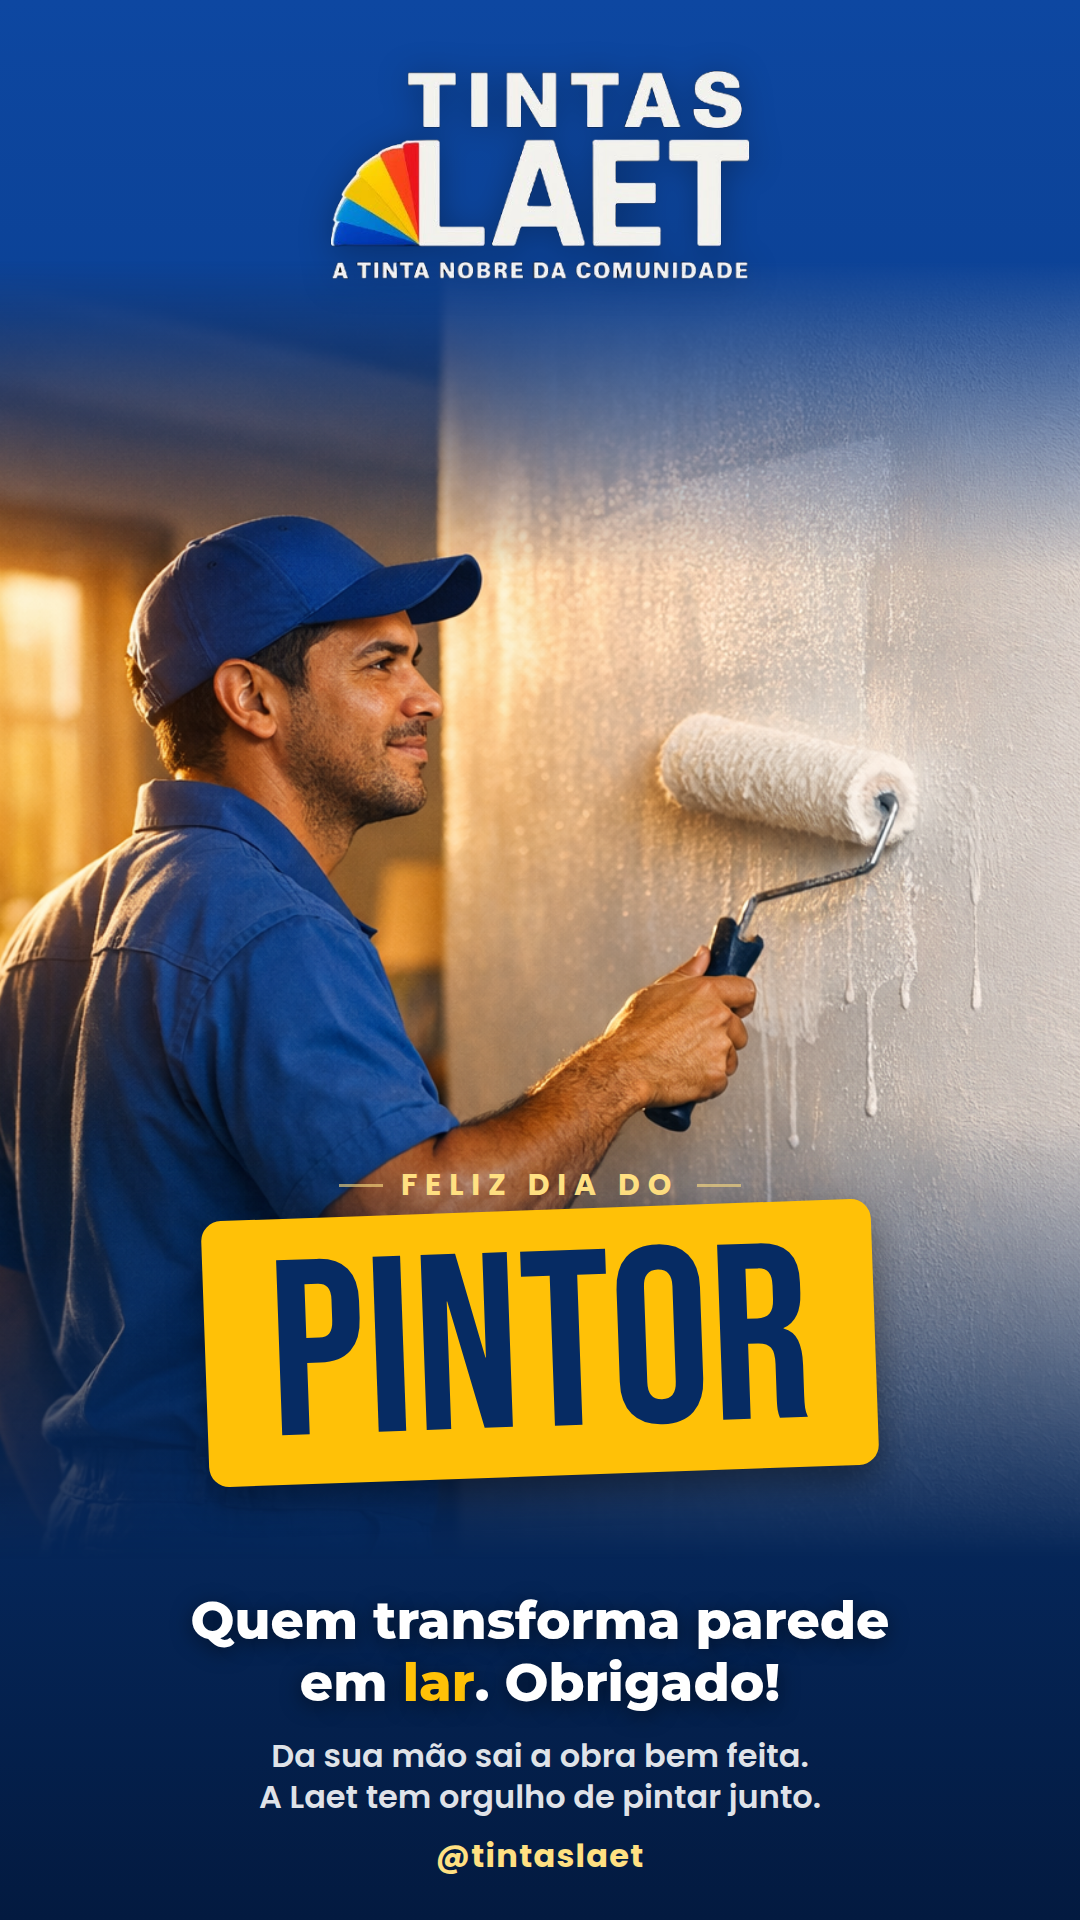
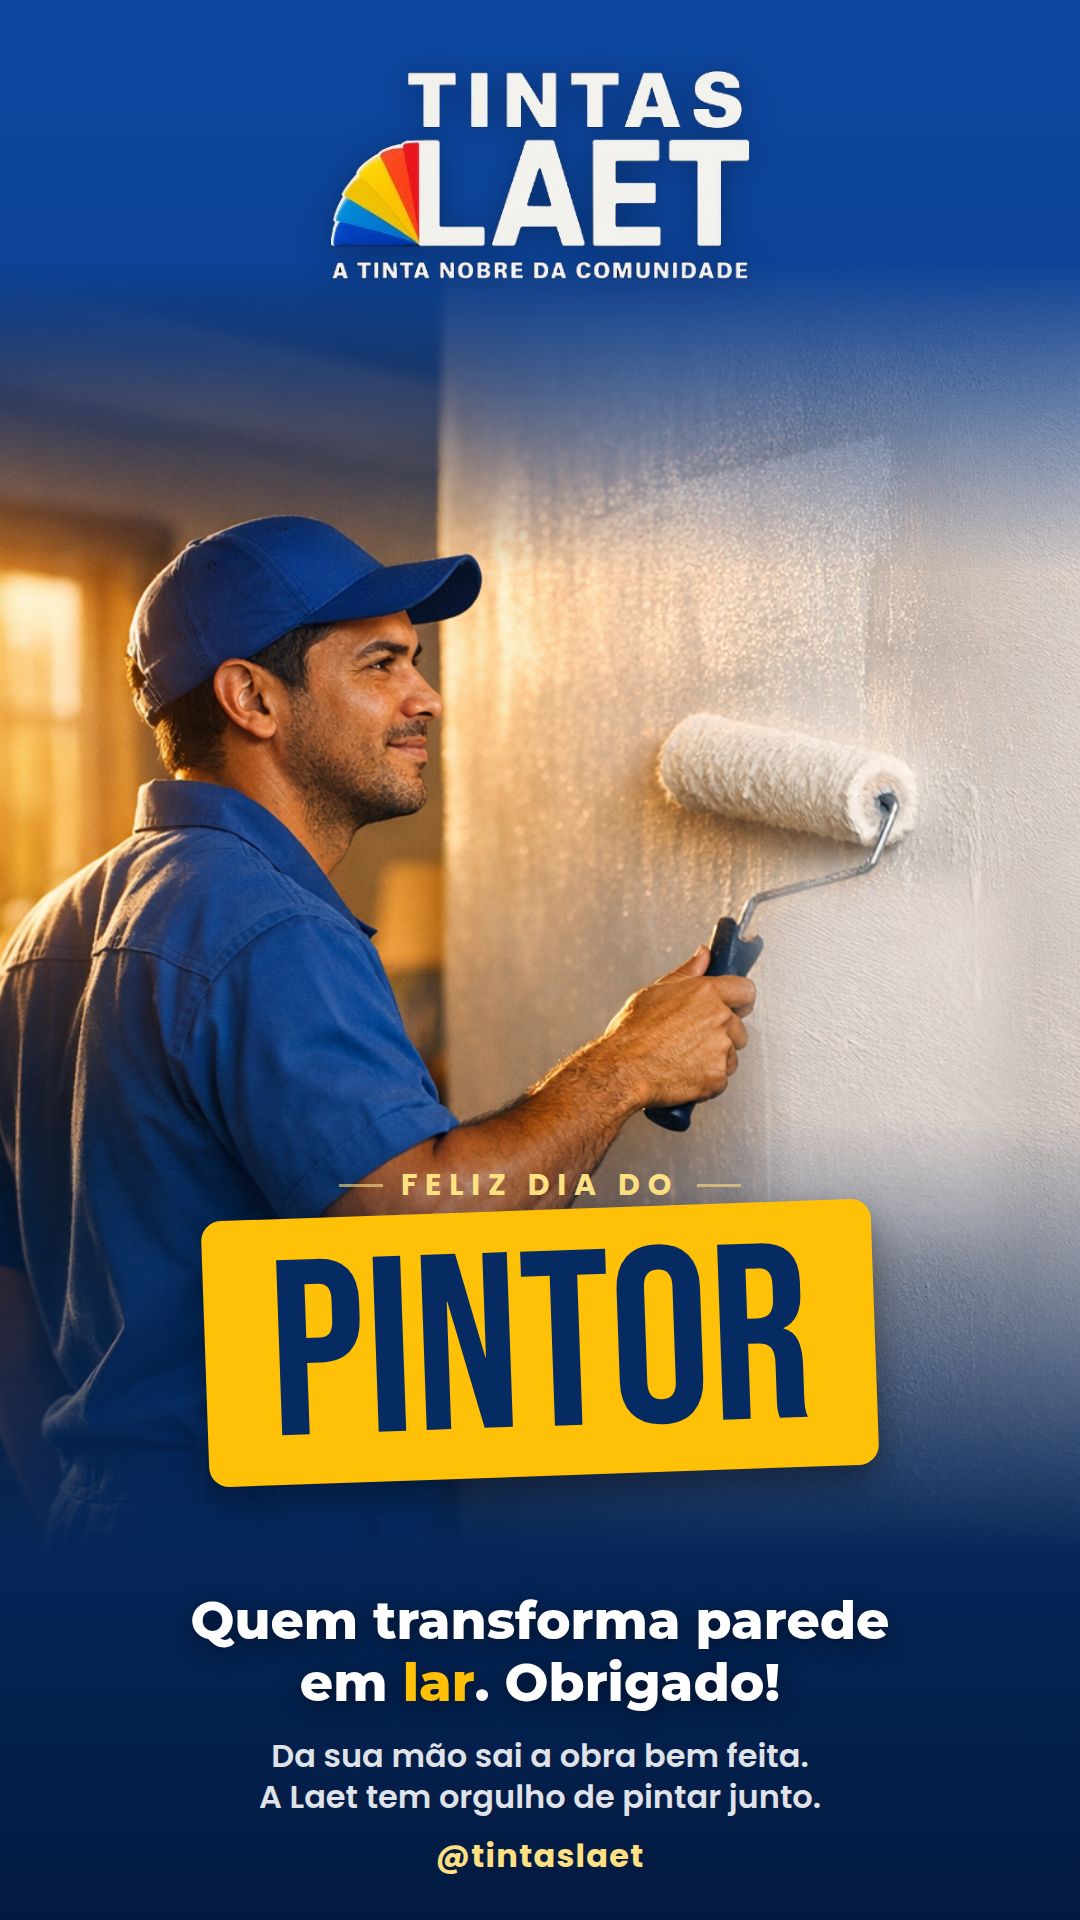
Story Dia do Pintor: remove tinta escorrida da foto
Claude-Session: https://claude.ai/code/session_01GERzdKqRwXMVg2X3B1iW2A

Changed region(s): [[0.6722, 0.4375, 0.9167, 0.6562]]

diff --git a/marketing/stories/2026-10/18-dia-do-pintor/story.html b/marketing/stories/2026-10/18-dia-do-pintor/story.html
@@ -6,7 +6,7 @@
 *, *::before, *::after { margin:0; padding:0; box-sizing:border-box; }
 body { background:#020A18; }
 .slide { width:1080px; height:1920px; position:relative; overflow:hidden; color:#fff; text-align:center; background:linear-gradient(180deg,#0D47A1 0%,#0A3A86 40%,#062B63 72%,#031A40 100%); }
-.foto { position:absolute; left:0; right:0; top:260px; height:1300px; -webkit-mask-image:linear-gradient(180deg,transparent 0,#000 24%,#000 66%,transparent 100%); mask-image:linear-gradient(180deg,transparent 0,#000 24%,#000 66%,transparent 100%); background:url('foto.png') 14% 50%/auto 100% no-repeat; }
+.foto { position:absolute; left:0; right:0; top:260px; height:1300px; -webkit-mask-image:linear-gradient(180deg,transparent 0,#000 24%,#000 66%,transparent 100%); mask-image:linear-gradient(180deg,transparent 0,#000 24%,#000 66%,transparent 100%); background:url('foto-limpa.png') 14% 50%/auto 100% no-repeat; }
 .abs { position:absolute; z-index:5; left:0; right:0; }
 .logo { height:210px; filter:drop-shadow(0 4px 16px rgba(0,0,0,.3)); }
 .ey { font:700 30px/1 'Poppins',sans-serif; color:#FFE082; letter-spacing:.26em; text-transform:uppercase; display:flex; align-items:center; gap:18px; justify-content:center; }
